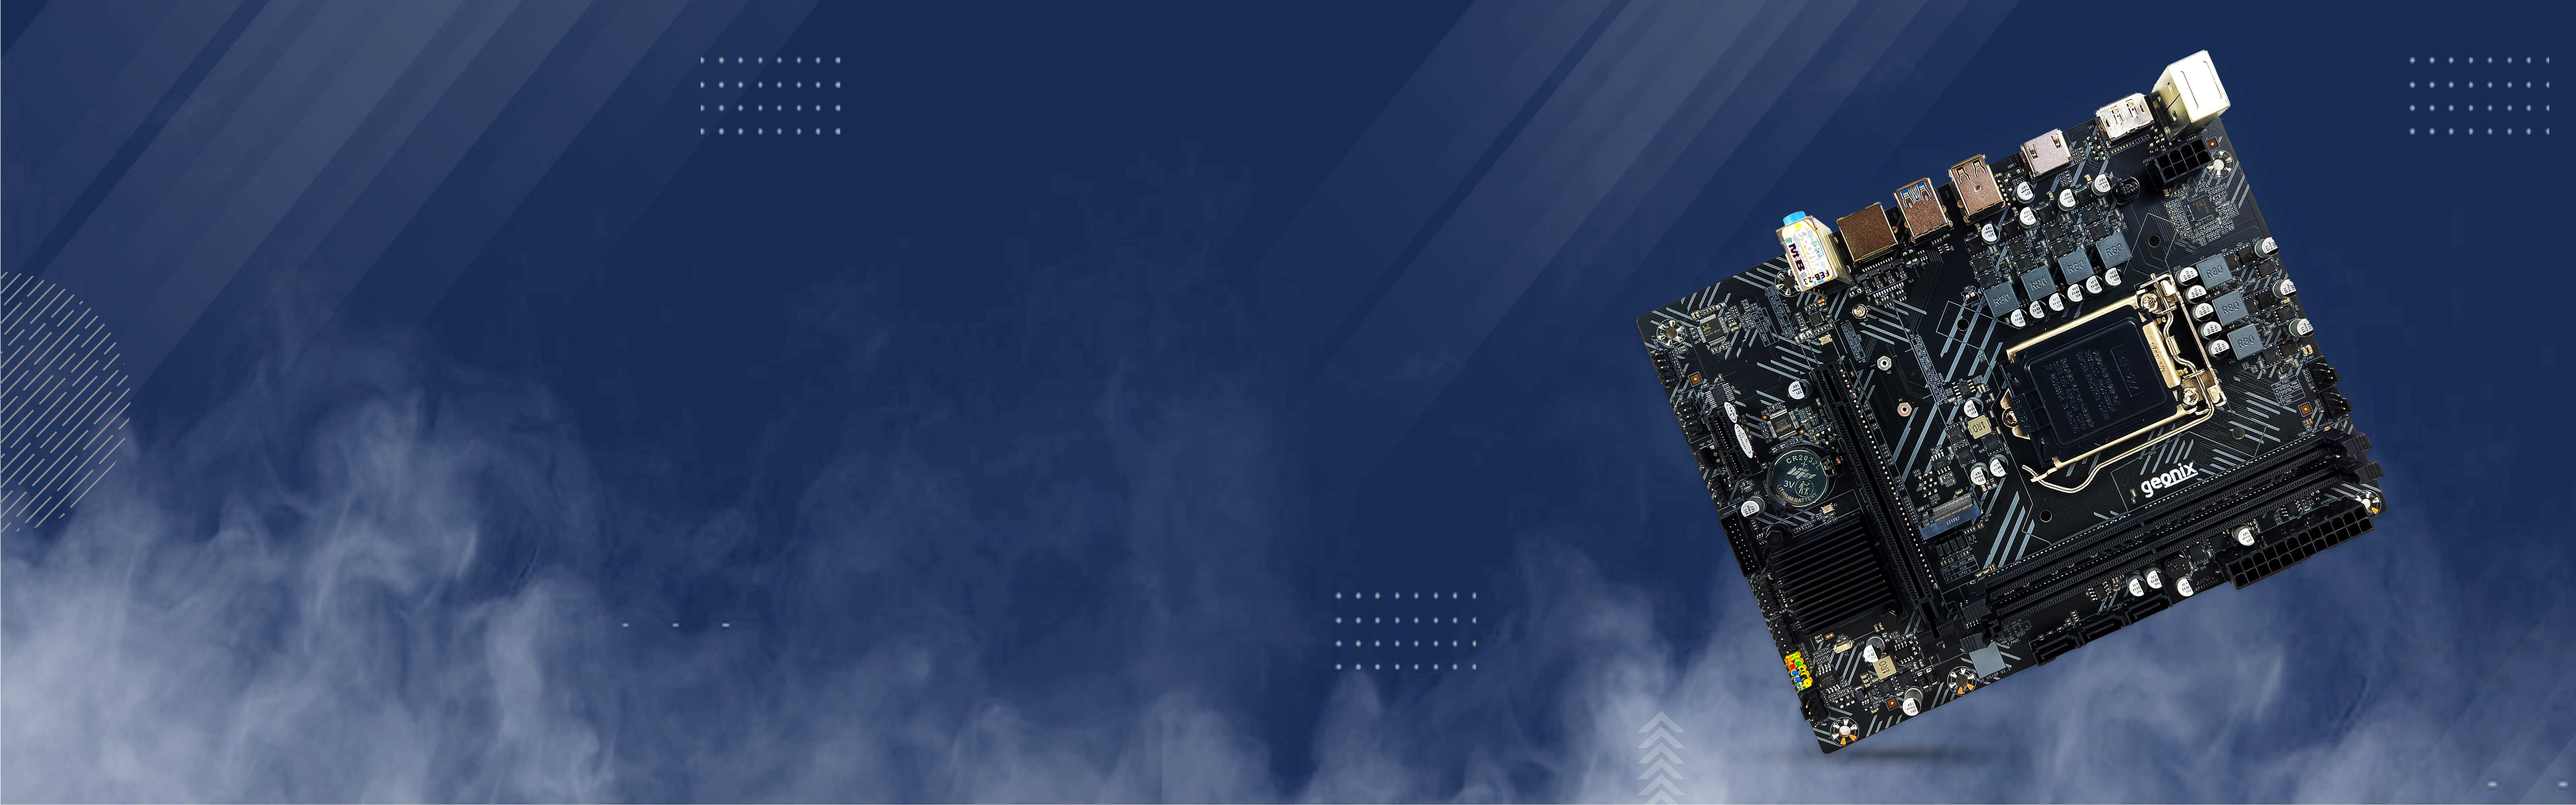
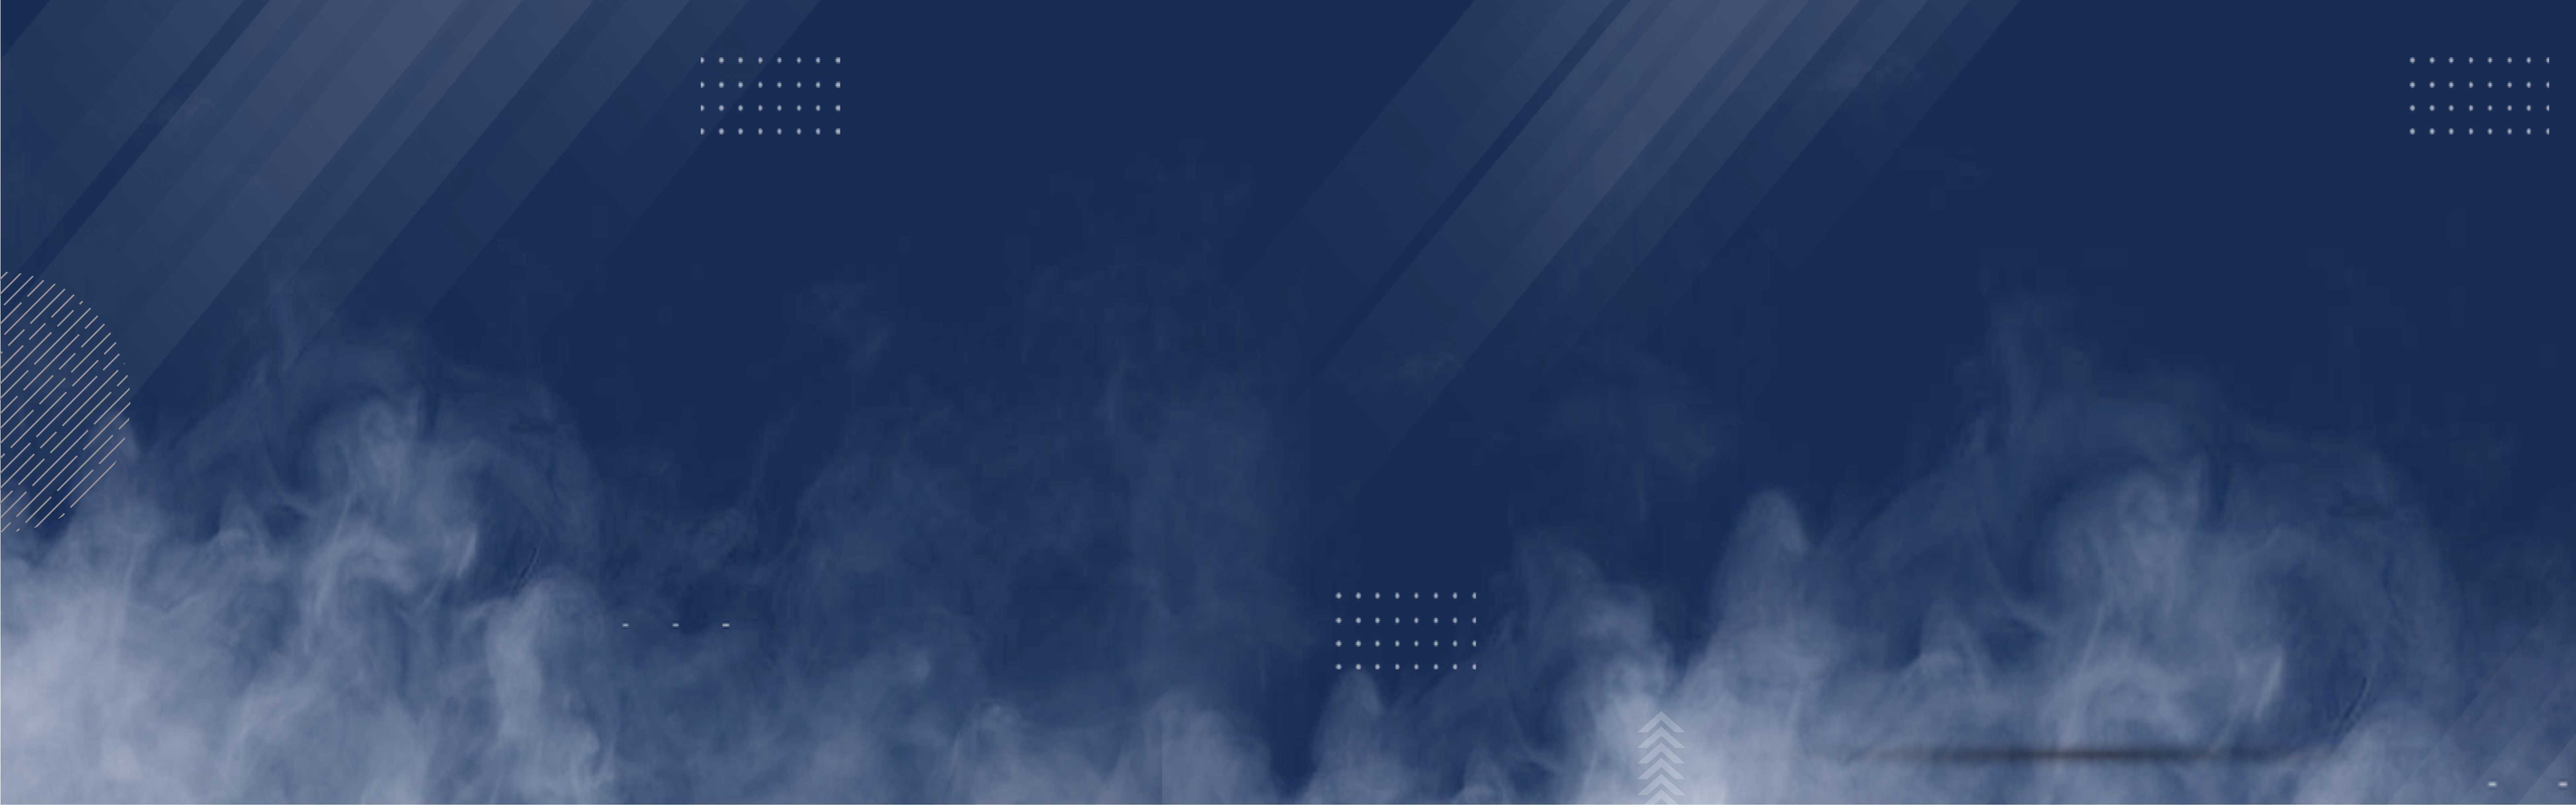
new code with alert

Changed region(s): [[0.625, 0.062, 0.9375, 0.961], [0.7812, 0.93, 0.875, 0.961]]

diff --git a/src/app/pages/home/index/carousel-basic/carousel-basic.component.scss b/src/app/pages/home/index/carousel-basic/carousel-basic.component.scss
@@ -75,6 +75,14 @@
         right: 11vw;
     }
 
+    .motherboard {
+        position: absolute;
+        max-width: 14vw;
+        top: 4vw;
+        right: 9vw;
+        min-width: 30vw;
+    }
+
     .one {
         background-image: url('/assets/images/MONITOR\ HOME\ BANNER.jpg');
         background-size: cover;
@@ -147,27 +155,56 @@
 
     .homeslider {
         .homeslider-main {
+            align-items: flex-start !important;
+            padding-top: 6vw;
             min-height: 500px;
-            
+            box-shadow: inset 0 500px #0000003d;            
+
             h3.smart {
-                font-size: 4vw;
+                font-size: 4vw !important;
             }
 
-            .one {
-                background-image: url('/assets/images/New\ banner\ size.jpg');
-                background-size: cover;
+            .desktop-image, .hdd, .motherboard {
+                display: none;
             }
-        
-            .two {
-                background-image: url('/assets/images/HDD\ BANNER.jpg');
-                background-size: cover;
+
+            .discounttext {
+                top: 90vw;
+                left: 4vw;
+                font-size: 5vw;
+                line-height: 6vw;
+
+                span {
+                    font-size: 6vw;
+                }
             }
-        
-            .three {
-                background-image: url('/assets/images/MOTHERBOARD\ BANNER.jpg');
-                background-size: cover;
-                background-position: right;
+            
+            .extra {
+                p {
+                    max-width: 80%;
+                    color: white;
+                }
             }
+
+            .shop-white-btn {
+                display: none;
+            }
+        }
+
+        .one {
+            background-image: url('/assets/images/Newbanner.jpg');
+            background-size: cover;
+        }
+    
+        .two {
+            background-image: url('/assets/images/MOBILEBANNERMOTHERBOARD.jpg');
+            background-size: cover;
+        }
+    
+        .three {
+            background-image: url('/assets/images/MOBILE\ BANNER\ HDD.jpg');
+            background-size: cover;
+            background-position: right;
         }
     }
 }

diff --git a/src/app/pages/home/index/modal-basic/modal-basic.component.html b/src/app/pages/home/index/modal-basic/modal-basic.component.html
@@ -5,20 +5,7 @@
 				(click)="modal.dismiss('Cross click')">
 				<i class="fa-solid fa-circle-xmark"></i></button>
 				<div class="bodymain-div">
-					<div class="row">
-						<div class="col-sm-7">
-							<img src="/assets/images/home/whitelogo.png" class="img-fluid popuplogo-image">
-							<p class="oppupfirst-heading">by Subscribe our Newsletter</p>
-							<h2>Get <span> 20% Off </span> Discount Coupon</h2>
-							<p class="popuplast-discription">Get has been the industry's standard dummy text ever since the ey of type andmen offer book.</p>
-							<div class="subscribe-input">
-								<input type="text" placeholder="EMAIL ADDRESS"><button>Subscribe</button>
-							</div>
-						</div>
-						<div class="col-sm-5">
-							<img src="/assets/images/home/banners/12 A SIDE PNG1.png">
-						</div>
-					</div>
+					<img src="assets/images/popup.jpeg" class="img-fluid">
 				</div>
 			</div>
 	</ng-template>

diff --git a/src/app/pages/home/index/modal-basic/modal-basic.component.scss b/src/app/pages/home/index/modal-basic/modal-basic.component.scss
@@ -2,8 +2,8 @@
 
 .modal-body {
     background-image: linear-gradient(171deg, #27aae1, #002d64);
-    padding: 50px;
-    max-width: 85%;
+    padding: 0px;
+    max-width: 60%;
     margin: auto;
     border-radius: 5px;
 
@@ -57,7 +57,12 @@
     }
 }
 
-@media screen and(max-width: 576px) {
+@media screen and (max-width: 576px) {
+
+    // .modal-open .modal {
+    //     display: none;
+    // }
+
     .modal-body {
         padding: 7vw;
         .bodymain-div {    

diff --git a/src/app/pages/home/index/carousel-basic/carousel-basic.component.html b/src/app/pages/home/index/carousel-basic/carousel-basic.component.html
@@ -55,6 +55,9 @@
                             <span>Shop now</span>
                         </a>
                     </div>
+                    <div class="motherboard animate__animated animate__bounceInDown animate__delay-1s">
+                        <img src="assets/images/H510.png" class="img-fluid">
+                    </div>
                 </div>
             </ng-template>
         </ngb-carousel>

diff --git a/src/styles.scss b/src/styles.scss
@@ -170,3 +170,15 @@ body { margin: 0; font-family: 'Poppins',sans-serif; }
         transition: opacity .15s ease;
     }
 }
+
+// modal display none on mobile screens
+
+@media screen and (max-width: 576px) {
+    .modal-backdrop.fade.show {
+        display: none !important;
+    }
+
+    .modal-body {
+        display: none !important;
+    }
+}

diff --git a/src/app/pages/home/index/index.component.html b/src/app/pages/home/index/index.component.html
@@ -13,6 +13,8 @@
 
     <molla-home-slider></molla-home-slider>
 
+    <molla-modal-basic></molla-modal-basic>
+
     <!--  bootstrap slider component end  -->
 
     <div class="bg-transparent">
